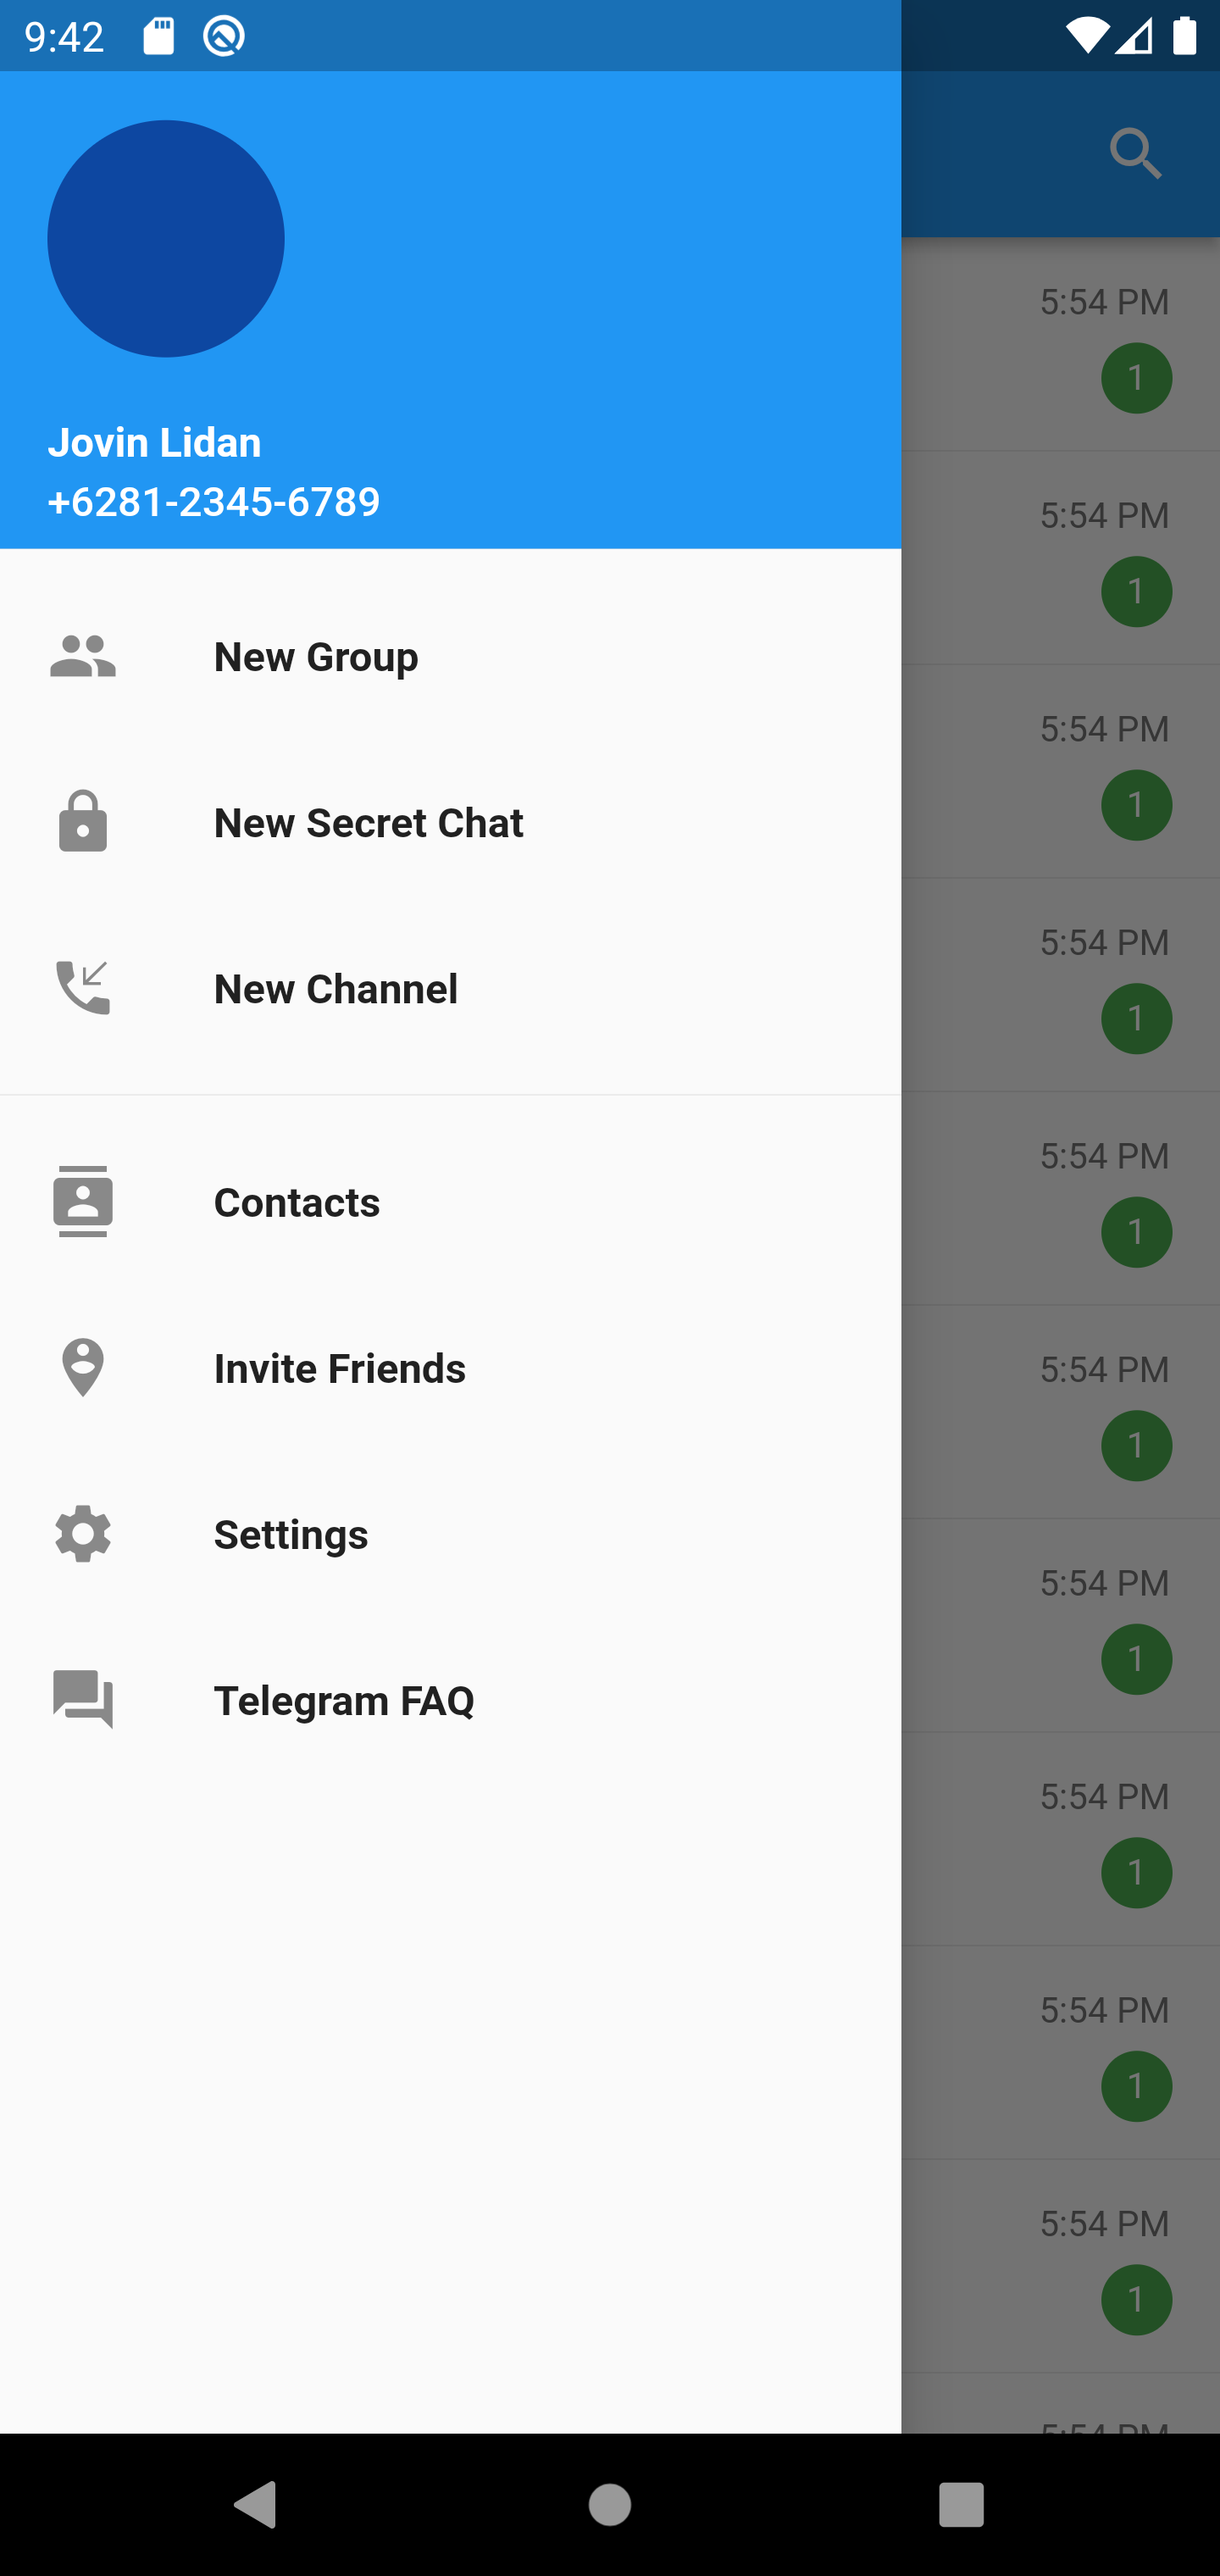
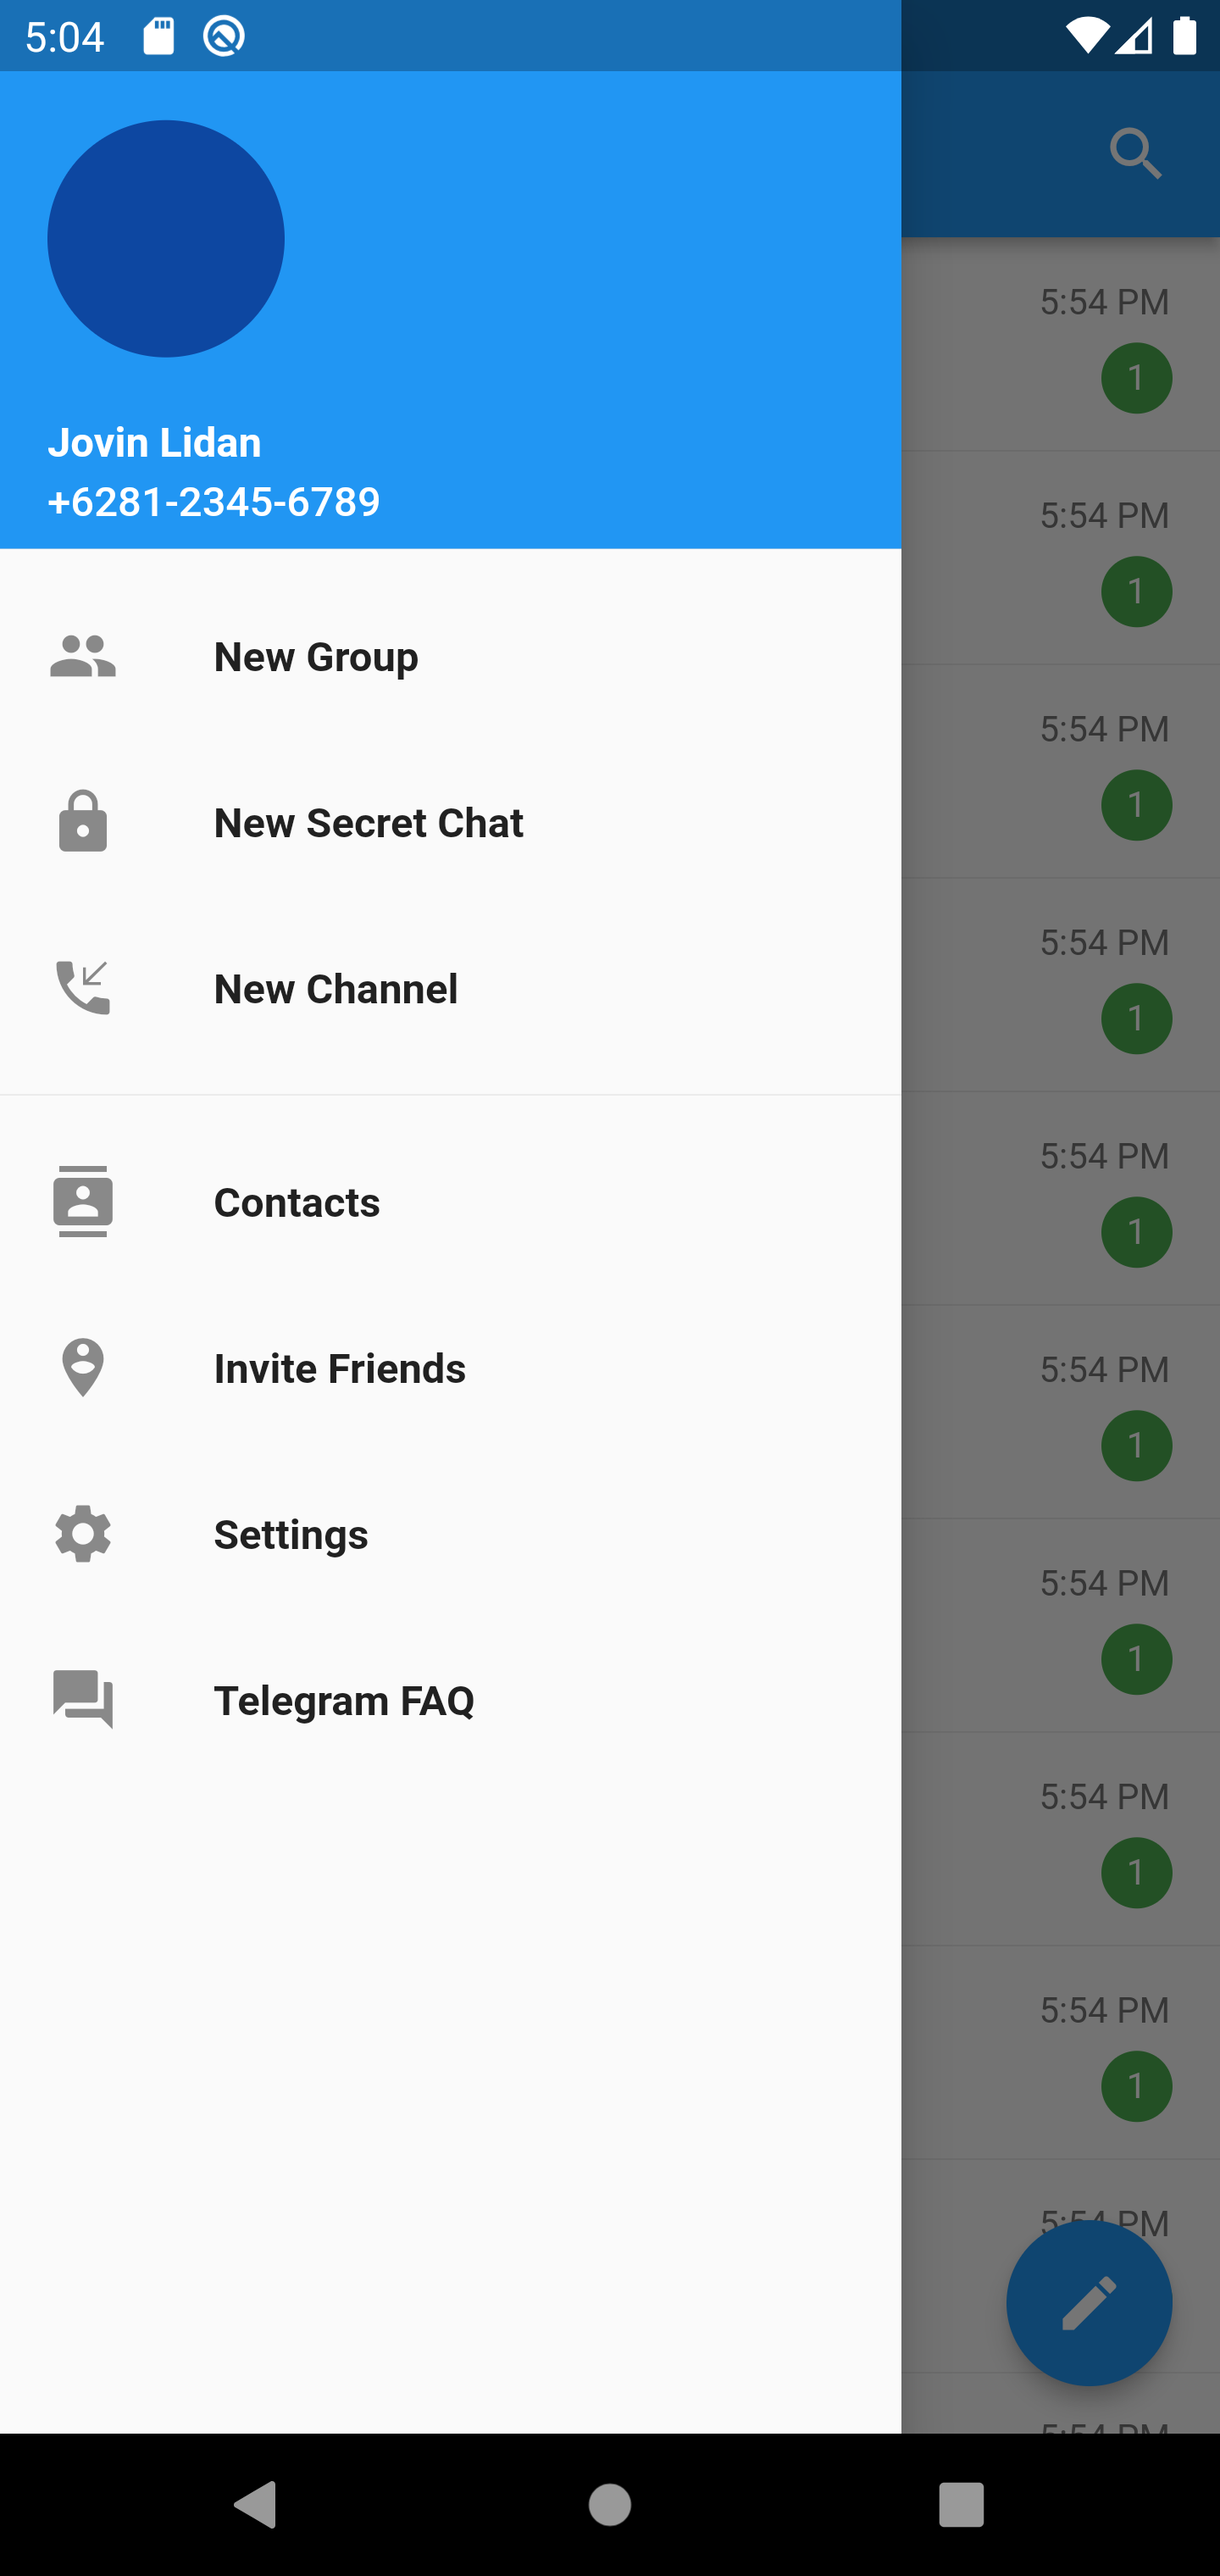
add fab

Changed region(s): [[0.8125, 0.8438, 0.9688, 0.9375], [0.0312, 0.0, 0.0938, 0.0312]]

diff --git a/12_Platform Widget/pratikum/lib/soal1.dart b/12_Platform Widget/pratikum/lib/soal1.dart
@@ -24,6 +24,10 @@ class Soal1 extends StatelessWidget {
         ),
         body: const CustomBody(),
         drawer: const CustomDrawer(),
+        floatingActionButton: const FloatingActionButton(
+          child: Icon(Icons.edit),
+          onPressed: null,
+        ),
       ),
     );
   }

diff --git a/12_Platform Widget/pratikum/lib/main.dart b/12_Platform Widget/pratikum/lib/main.dart
@@ -6,5 +6,5 @@ import 'package:pratikum/soal2.dart';
 // Silahkan uncomment salah satu Soal1 / Soal2 dibawah dan lakukan hot restart pada aplikasi
 void main() {
   // runApp(Soal1());
-  runApp(Soal2());
+  runApp(Soal1());
 }

diff --git a/12_Platform Widget/summary.md b/12_Platform Widget/summary.md
@@ -97,6 +97,10 @@ class Soal1 extends StatelessWidget {
         ),
         body: const CustomBody(),
         drawer: const CustomDrawer(),
+        floatingActionButton: const FloatingActionButton(
+        child: Icon(Icons.edit),
+        onPressed: null,
+        ),
       ),
     );
   }
@@ -108,7 +112,7 @@ Constructor home diisi dengan Scaffold, kemudian property appBar diisi dengan Ap
 Centertitle = false, untuk mengubah posisi title ke bagian kiri (untuk iOS).
 actions diisi dengan icon search, dan diberikkan padding kanan kiri sebesar 16.
 
-Kemudian pada bagian Scaffold, constructor body dan drawer diisi dengan CustomWidget yaitu CustomBody dan CustomDrawer.
+Kemudian pada bagian Scaffold, constructor body dan drawer diisi dengan CustomWidget yaitu CustomBody dan CustomDrawer. Kemudian terdapat Floating action button yang didalamnya terdapat icon dengan constructor onpressed null
 
 **Widget (CustomBody)**
 
